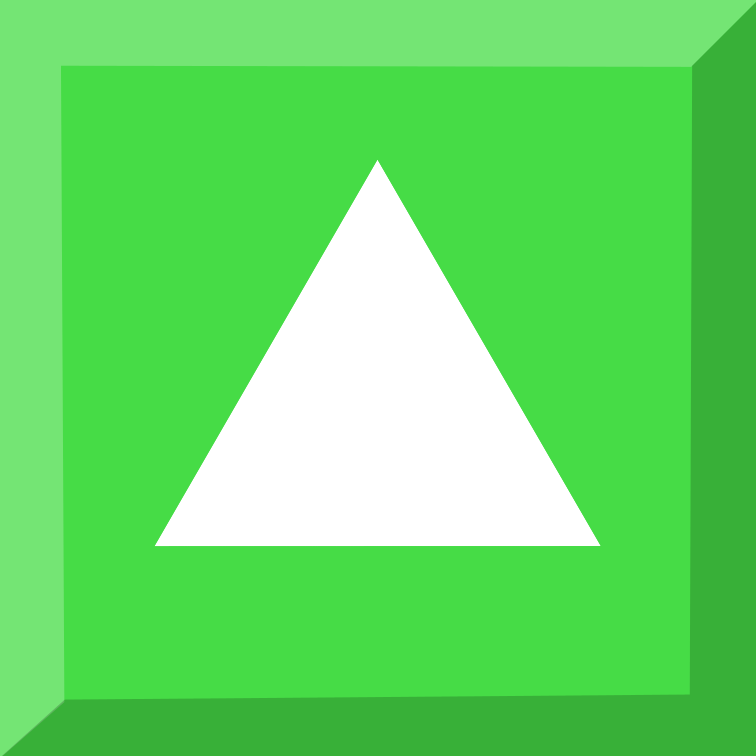
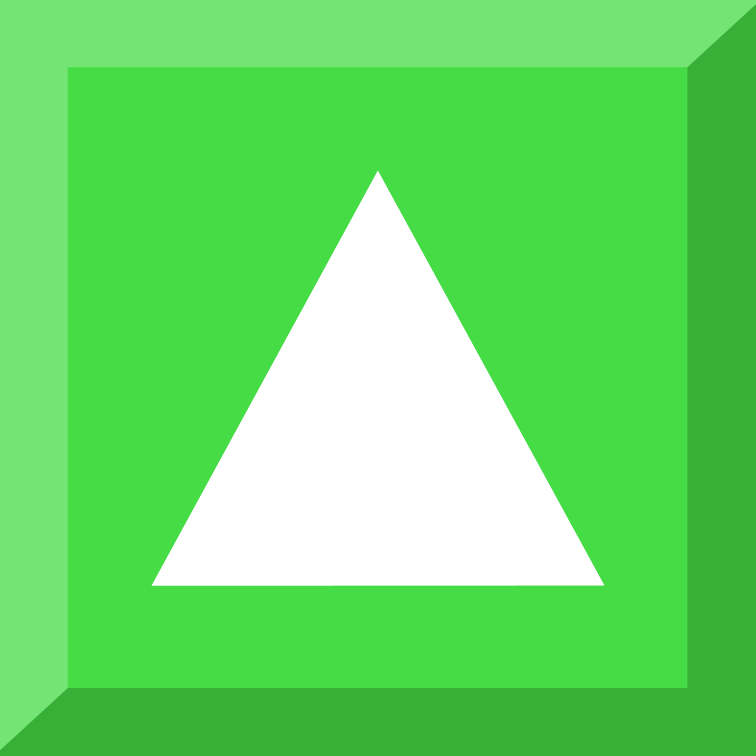
Added assets to ternary ruleset

diff --git a/Crystalarium/Crystalarium/Main/Configuration.cs b/Crystalarium/Crystalarium/Main/Configuration.cs
@@ -582,7 +582,7 @@ namespace Crystalarium.Main
 
             // beams
             beams.SignalConfig.SignalTexture = Textures.pixel;
-            beams.SignalConfig.Colors =new( new Gradient.ColorStop(new Color(230, 230, 150),1));
+            beams.SignalConfig.Colors =new( new Gradient.ColorStop(new Color(240, 240, 150), 1));
            
 
             // chunks
@@ -610,7 +610,7 @@ namespace Crystalarium.Main
 
             // beams
             basic.SignalConfig.SignalTexture = Textures.pixel;
-            basic.SignalConfig.Colors = new(new Gradient.ColorStop(new Color(230, 230, 150), 0));
+            basic.SignalConfig.Colors = new(new Gradient.ColorStop(new Color(240, 240, 150), 0));
 
             // chunks
             basic.ChunkConfig.ChunkBackground = Textures.chunkGrid;
@@ -624,7 +624,7 @@ namespace Crystalarium.Main
 
 
             ternary.SignalConfig.SignalTexture = Textures.pixel;
-            ternary.SignalConfig.Colors = new(new Gradient.ColorStop(new Color(230, 150, 150), -1), new Gradient.ColorStop(new(150, 150, 230), 1));
+            ternary.SignalConfig.Colors = new(new Gradient.ColorStop(new Color(240, 150, 150), -1), new Gradient.ColorStop(new(150, 240, 150), 1));
 
             // stopper
             conf = new AgentViewConfig(baseConfig, TernaryRules.GetAgentType("stopper"));
@@ -633,13 +633,12 @@ namespace Crystalarium.Main
 
             // emitter (+)
             conf = new AgentViewConfig(baseConfig, TernaryRules.GetAgentType("increment"));
-            conf.DefaultTexture = Textures.emitter;
+            conf.DefaultTexture = Textures.increment;
             ternary.AgentConfigs.Add(conf);
 
             // emitter (-)
             conf = new AgentViewConfig(baseConfig, TernaryRules.GetAgentType("decrement"));
-            conf.DefaultTexture = Textures.emitter;
-            conf.Color = Color.Red;
+            conf.DefaultTexture = Textures.decrement;
             ternary.AgentConfigs.Add(conf);
 
             // splitter
@@ -660,14 +659,12 @@ namespace Crystalarium.Main
 
             // and gate
             conf = new AgentViewConfig(baseConfig, TernaryRules.GetAgentType("and gate"));
-            conf.DefaultTexture = Textures.notGate;
-            conf.Color = Color.Yellow;
+            conf.DefaultTexture = Textures.and;
             ternary.AgentConfigs.Add(conf);
 
             // or gate
             conf = new AgentViewConfig(baseConfig, TernaryRules.GetAgentType("or gate"));
-            conf.DefaultTexture = Textures.notGate;
-            conf.Color = Color.Green;
+            conf.DefaultTexture = Textures.or;
             ternary.AgentConfigs.Add(conf);
 
             // chunks
@@ -758,7 +755,7 @@ namespace Crystalarium.Main
 
             // beams
             beams.SignalConfig.SignalTexture = Textures.pixel;
-            beams.SignalConfig.Colors = new(new Gradient.ColorStop(new Color(230, 230, 150), 0));
+            beams.SignalConfig.Colors = new(new Gradient.ColorStop(new Color(240, 240, 150), 0));
 
             // chunks
             beams.ChunkConfig.ChunkBackground = Textures.pixel;
@@ -790,7 +787,7 @@ namespace Crystalarium.Main
 
             // touch
             basic.SignalConfig.SignalTexture = Textures.pixel;
-            beams.SignalConfig.Colors = new(new Gradient.ColorStop(new Color(230, 230, 150), 0));
+            beams.SignalConfig.Colors = new(new Gradient.ColorStop(new Color(240, 240, 150), 0));
             // chunks
             basic.ChunkConfig = new ChunkViewConfig(beams.ChunkConfig);
 
@@ -833,12 +830,12 @@ namespace Crystalarium.Main
             ternary.AgentConfigs.Add(conf);
 
             conf = new AgentViewConfig(baseConfig, TernaryRules.GetAgentType("increment"));
-            conf.Color = new Color(255, 0, 255);
+            conf.Color = new Color(70, 220, 70);
             ternary.AgentConfigs.Add(conf);
 
 
             conf = new AgentViewConfig(baseConfig, TernaryRules.GetAgentType("decrement"));
-            conf.Color = new Color(255, 0, 255);
+            conf.Color = new Color(220, 70, 70);
             ternary.AgentConfigs.Add(conf);
 
             conf = new AgentViewConfig(baseConfig, TernaryRules.GetAgentType("mirror"));
@@ -854,15 +851,15 @@ namespace Crystalarium.Main
             ternary.AgentConfigs.Add(conf);
 
             conf = new AgentViewConfig(baseConfig, TernaryRules.GetAgentType("and gate"));
-            conf.Color = new Color(255, 0, 255);
+            conf.Color = new Color(220, 200, 70);
             ternary.AgentConfigs.Add(conf);
 
             conf = new AgentViewConfig(baseConfig, TernaryRules.GetAgentType("or gate"));
-            conf.Color = new Color(255, 0, 255);
+            conf.Color = new Color(70, 220, 70);
             ternary.AgentConfigs.Add(conf);
 
             ternary.SignalConfig.SignalTexture = Textures.pixel;
-            ternary.SignalConfig.Colors = new(new Gradient.ColorStop(new Color(230, 150, 150), -1), new Gradient.ColorStop(new(150, 150, 230), 1));
+            ternary.SignalConfig.Colors = new(new Gradient.ColorStop(new Color(240, 150, 150), -1), new Gradient.ColorStop(new(150, 240, 150), 1));
 
             // chunks
             ternary.ChunkConfig = new ChunkViewConfig(beams.ChunkConfig);

diff --git a/Crystalarium/Crystalarium/Main/Textures.cs b/Crystalarium/Crystalarium/Main/Textures.cs
@@ -23,15 +23,30 @@ namespace Crystalarium.Main
         internal static Texture2D altChunkGrid;
         internal static Texture2D sampleAgent;
 
-        //
-        internal static Texture2D emitter;
+        // this is an ugly and untennable system
+        // it will be fixed by the time Milestone 9 is done, surely.
+
+
+        // crystalarium
         internal static Texture2D channel;
         internal static Texture2D luminalGate;
-        internal static Texture2D mirror;
-        internal static Texture2D prism;
+
+        // general
         internal static Texture2D stopper;
-        internal static Texture2D notGate;
+        internal static Texture2D mirror;
+
+        internal static Texture2D prism;
         internal static Texture2D splitter;
+
+        // gates
+        internal static Texture2D notGate;
+        internal static Texture2D and;
+        internal static Texture2D or;
+
+        // triangles
+        internal static Texture2D emitter;
+        internal static Texture2D increment;
+        internal static Texture2D decrement;
 
         // other textrues
         internal static Texture2D viewboxBG;
@@ -68,10 +83,17 @@ namespace Crystalarium.Main
             Textures.channel = Content.Load<Texture2D>("Agents/channel");
             Textures.luminalGate = Content.Load<Texture2D>("Agents/luminalGate");
             Textures.mirror = Content.Load<Texture2D>("Agents/mirror");
-            Textures.notGate = Content.Load<Texture2D>("Agents/notgate");
+            Textures.notGate = Content.Load<Texture2D>("Agents/not");
             Textures.prism = Content.Load<Texture2D>("Agents/prism");
             Textures.stopper = Content.Load<Texture2D>("Agents/stopper");
             splitter = Content.Load<Texture2D>("Agents/splitter");
+            and = Content.Load<Texture2D>("Agents/and");
+            or = Content.Load<Texture2D>("Agents/or");
+
+            increment = Content.Load<Texture2D>("Agents/increment");
+            decrement = Content.Load<Texture2D>("Agents/decrement");
+
+
         }
 
     }

diff --git a/Crystalarium/Crystalarium/Main/CrystalGame.cs b/Crystalarium/Crystalarium/Main/CrystalGame.cs
@@ -33,7 +33,7 @@ namespace Crystalarium.Main
         // version number.
         private const int MAJOR = 8;
         private const int MINOR = 2;
-        private const int BUILD = 1184; // I like to increment this number every time I run the code after changing it. I don't always though.
+        private const int BUILD = 1200; // I like to increment this number every time I run the code after changing it. I don't always though.
 
         internal static string VersionString
         {
